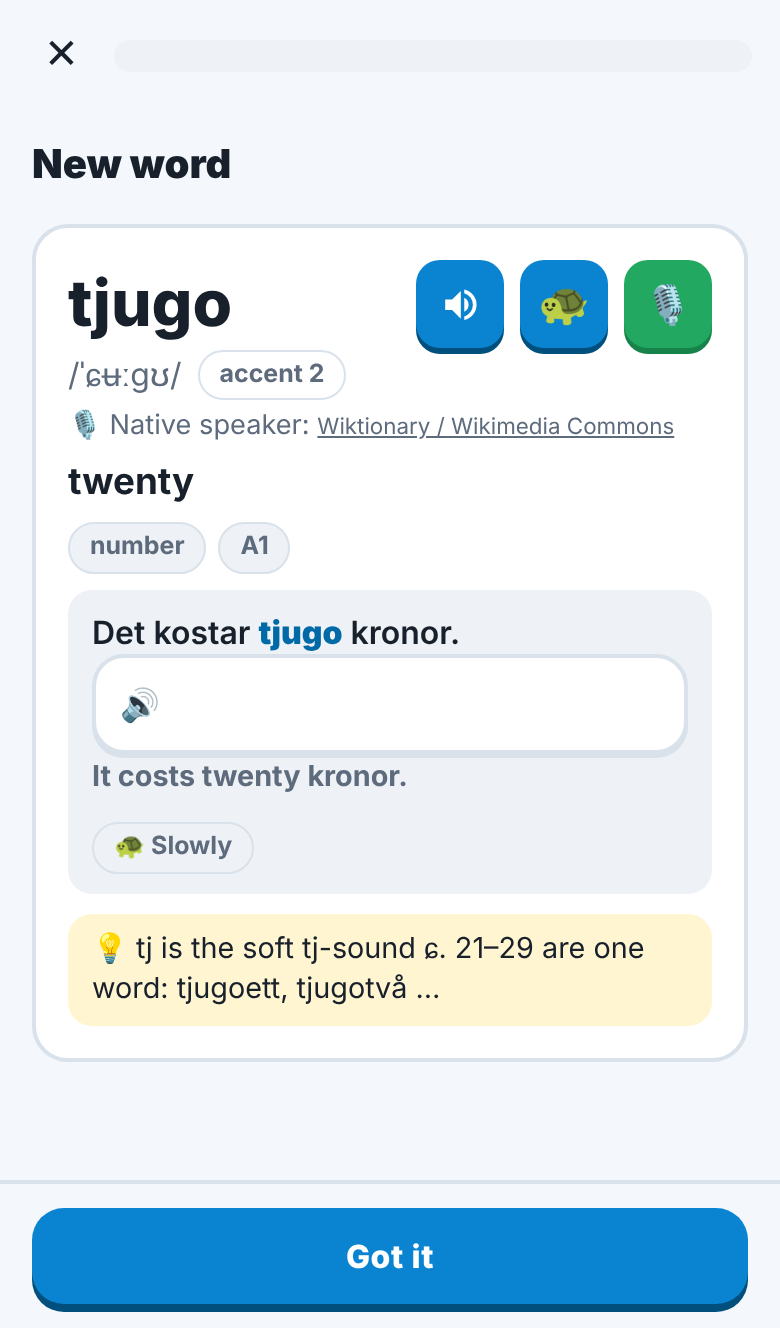
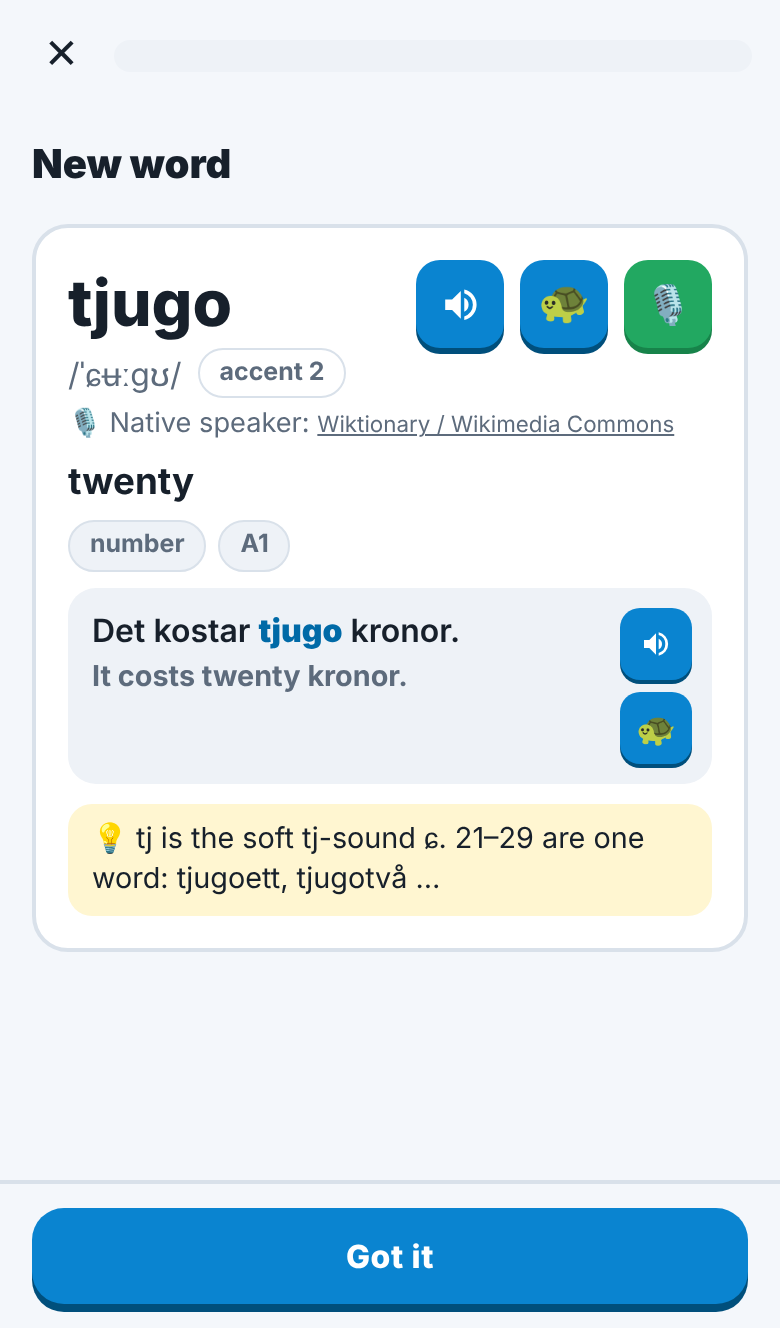
Fix the example-sentence speaker and tidy the sound buttons
The home screen's new mini cards reused the class name of the small speaker
icon after each example sentence, which turned it into a large empty white
box. The cards now use their own class. Example sentences get a two-column
layout with matching 🔊 normal and 🐢 slow buttons on the right. The
word's 🔊 🐢 🎙 buttons stay together as one group, so long words and
phrases wrap cleanly. Adds a test that both example buttons play the
whole sentence. README screenshots are updated.

Claude-Session: https://claude.ai/code/session_01HuCfjRZzD8vZGNG5YWQMYB

diff --git a/css/style.css b/css/style.css
@@ -313,8 +313,9 @@ button.card:disabled { opacity: 0.6; }
 /* ---------- word card ---------- */
 
 .wordcard { background: var(--surface); border: 2px solid var(--line); border-radius: var(--radius); padding: 16px; }
-.wordcard .headline { display: flex; align-items: center; gap: 8px; flex-wrap: wrap; }
-.wordcard .headline > div:first-child { font-size: 2rem; font-weight: 800; margin-right: auto; }
+.wordcard .headline { display: flex; align-items: center; gap: 10px 12px; flex-wrap: wrap; }
+.wordcard .headline .hw { flex: 1 1 auto; min-width: 0; font-size: 2rem; font-weight: 800; line-height: 1.15; overflow-wrap: anywhere; }
+.sound-btns { display: flex; gap: 8px; flex: none; }
 .prefix { color: var(--muted); font-weight: 600; }
 .wordcard .en { font-size: 1.15rem; font-weight: 700; margin: 6px 0; }
 .wordcard .meta { display: flex; gap: 6px; flex-wrap: wrap; margin-bottom: 8px; }
@@ -328,12 +329,17 @@ table.forms { border-collapse: collapse; margin: 8px 0; width: 100%; font-size: 
 table.forms th { text-align: left; color: var(--muted); font-weight: 600; padding: 4px 8px 4px 0; width: 45%; }
 table.forms td { font-weight: 700; padding: 4px 0; }
 table.forms tr + tr { border-top: 1px solid var(--line); }
-.example { background: var(--surface-2); border-radius: 12px; padding: 10px 12px; margin-top: 8px; }
+.example {
+  display: grid; grid-template-columns: 1fr auto; gap: 10px; align-items: start;
+  background: var(--surface-2); border-radius: 14px; padding: 10px 10px 10px 12px; margin-top: 8px;
+}
 .example p { margin: 0; }
 .example .sv { font-weight: 600; cursor: pointer; }
-.example .en { color: var(--muted); font-size: 0.9rem; margin-top: 2px; }
+.example .en { color: var(--muted); font-size: 0.9rem; margin-top: 3px; }
 .example b { color: var(--brand); }
-.example .slow-ex { margin-top: 6px; cursor: pointer; }
+.ex-btns { display: flex; flex-direction: column; gap: 6px; }
+.speaker.sm { width: 36px; height: 36px; border-radius: 10px; font-size: 1rem; box-shadow: 0 2px 0 var(--brand-dark); }
+.speaker.sm:active { box-shadow: none; }
 .note { margin-top: 10px; font-size: 0.9rem; background: color-mix(in srgb, var(--accent) 18%, var(--surface)); border-radius: 12px; padding: 8px 12px; }
 .speaker {
   width: 44px; height: 44px; flex: none; border-radius: 12px; border: 0; background: var(--brand-2); color: #fff;
@@ -612,14 +618,14 @@ textarea.code { font-family: ui-monospace, Menlo, monospace; font-size: 0.75rem;
 .hero-btn:active:not(:disabled) { box-shadow: 0 1px 0 var(--accent-dark); }
 
 .mini-cards { display: grid; grid-template-columns: 1fr 1fr; gap: 10px; margin-bottom: 4px; }
-.mini {
+.mini-card {
   display: flex; align-items: center; gap: 10px; text-align: left; padding: 12px; border-radius: 16px;
   background: var(--surface); border: 2px solid var(--line); box-shadow: var(--shadow);
 }
-.mini:active { transform: translateY(2px); box-shadow: none; }
-.mini.due { border-color: var(--accent); background: color-mix(in srgb, var(--accent) 16%, var(--surface)); }
+.mini-card:active { transform: translateY(2px); box-shadow: none; }
+.mini-card.due { border-color: var(--accent); background: color-mix(in srgb, var(--accent) 16%, var(--surface)); }
 .mini-icon { font-size: 1.6rem; }
-.mini b { font-size: 0.95rem; }
+.mini-card b { font-size: 0.95rem; }
 
 .path { position: relative; }
 .path svg.trail { position: absolute; left: 0; top: 0; pointer-events: none; z-index: 0; overflow: visible; }

diff --git a/js/exercises.js b/js/exercises.js
@@ -174,19 +174,23 @@ export function exampleBlock(w, { speakable = true } = {}) {
   if (!w.ex) return null;
   const p = splitExample(w);
   const plain = w.ex.replace(/[{}]/g, '');
+  const play = (slow) => (e) => {
+    e.stopPropagation();
+    speak(plain, slow ? { rate: slowRate() } : {});
+  };
   return h(
     'div.example',
     h(
-      'p.sv',
-      speakable ? { onclick: () => speak(plain), role: 'button', tabindex: 0, title: 'Tap to listen' } : null,
-      p.before,
-      h('b', p.word),
-      p.after,
-      speakable ? h('span.mini', ' 🔊') : null,
+      'div.ex-text',
+      h('p.sv', speakable ? { onclick: play(false), title: 'Tap to listen' } : null, p.before, h('b', p.word), p.after),
+      h('p.en', w.exEn),
     ),
-    h('p.en', w.exEn),
     speakable
-      ? h('button.chip.slow-ex', { type: 'button', onclick: (e) => (e.stopPropagation(), speak(plain, { rate: slowRate() })) }, '🐢 Slowly')
+      ? h(
+          'div.ex-btns',
+          h('button.speaker.sm', { type: 'button', 'aria-label': 'Play the sentence', title: 'Play the sentence', onclick: play(false), html: ICON_SPEAKER }),
+          h('button.speaker.sm', { type: 'button', 'aria-label': 'Play the sentence slowly', title: 'Play slowly', onclick: play(true) }, '🐢'),
+        )
       : null,
   );
 }
@@ -209,10 +213,8 @@ export function wordCard(w, { compact = false } = {}) {
     'div.wordcard',
     h(
       'div.headline',
-      h('div', prefix(w) ? h('span.prefix', prefix(w) + ' ') : null, h('span.sv', w.sv)),
-      speakerBtn(w),
-      speakerBtn(w, { slow: true }),
-      nativeBtn(w, { onStatus: (st, n) => setNativeLine(nativeLine, st, n) }),
+      h('div.hw', prefix(w) ? h('span.prefix', prefix(w) + ' ') : null, h('span.sv', w.sv)),
+      h('div.sound-btns', speakerBtn(w), speakerBtn(w, { slow: true }), nativeBtn(w, { onStatus: (st, n) => setNativeLine(nativeLine, st, n) })),
     ),
     ipaLine(w),
     nativeLine,

diff --git a/js/views.js b/js/views.js
@@ -112,13 +112,13 @@ export function learnView() {
   const cards = h(
     'div.mini-cards',
     h(
-      'button.mini' + (due ? '.due' : ''),
+      'button.mini-card' + (due ? '.due' : ''),
       { type: 'button', onclick: () => (due ? startReview() : toast('Nothing to review right now 🎉')) },
       h('span.mini-icon', '🔁'),
       h('div', h('b', due ? `${due} to review` : 'All reviewed'), h('div.muted.small', due ? 'Keep them fresh' : 'Nice work')),
     ),
     h(
-      'button.mini',
+      'button.mini-card',
       { type: 'button', onclick: () => (location.hash = '#practice') },
       h('span.mini-icon', '📜'),
       h('div', h('b', `Quests ${qDone}/${q.length}`), h('div.muted.small', qDone === q.length ? 'All done!' : `${questReward} kr each`)),

diff --git a/sw.js b/sw.js
@@ -1,6 +1,6 @@
 // Service worker: makes the app work offline and load instantly.
 // Bump VERSION whenever app files change so phones pick up the new version.
-const VERSION = 'sq-v8';
+const VERSION = 'sq-v9';
 const SHELL = [
   './',
   'index.html',
